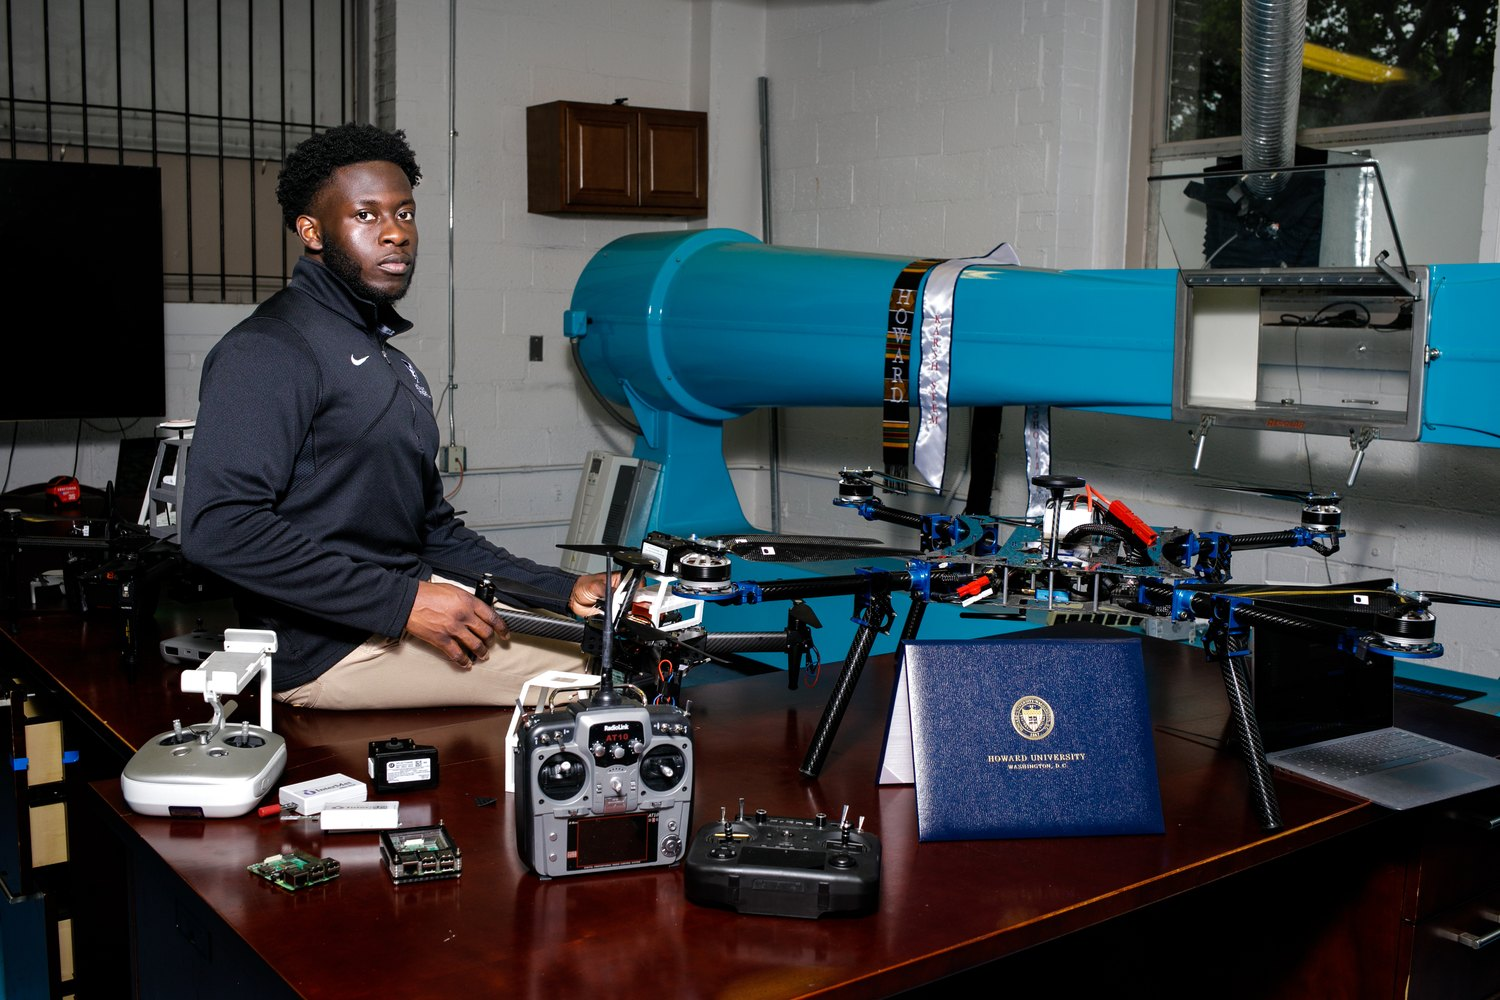
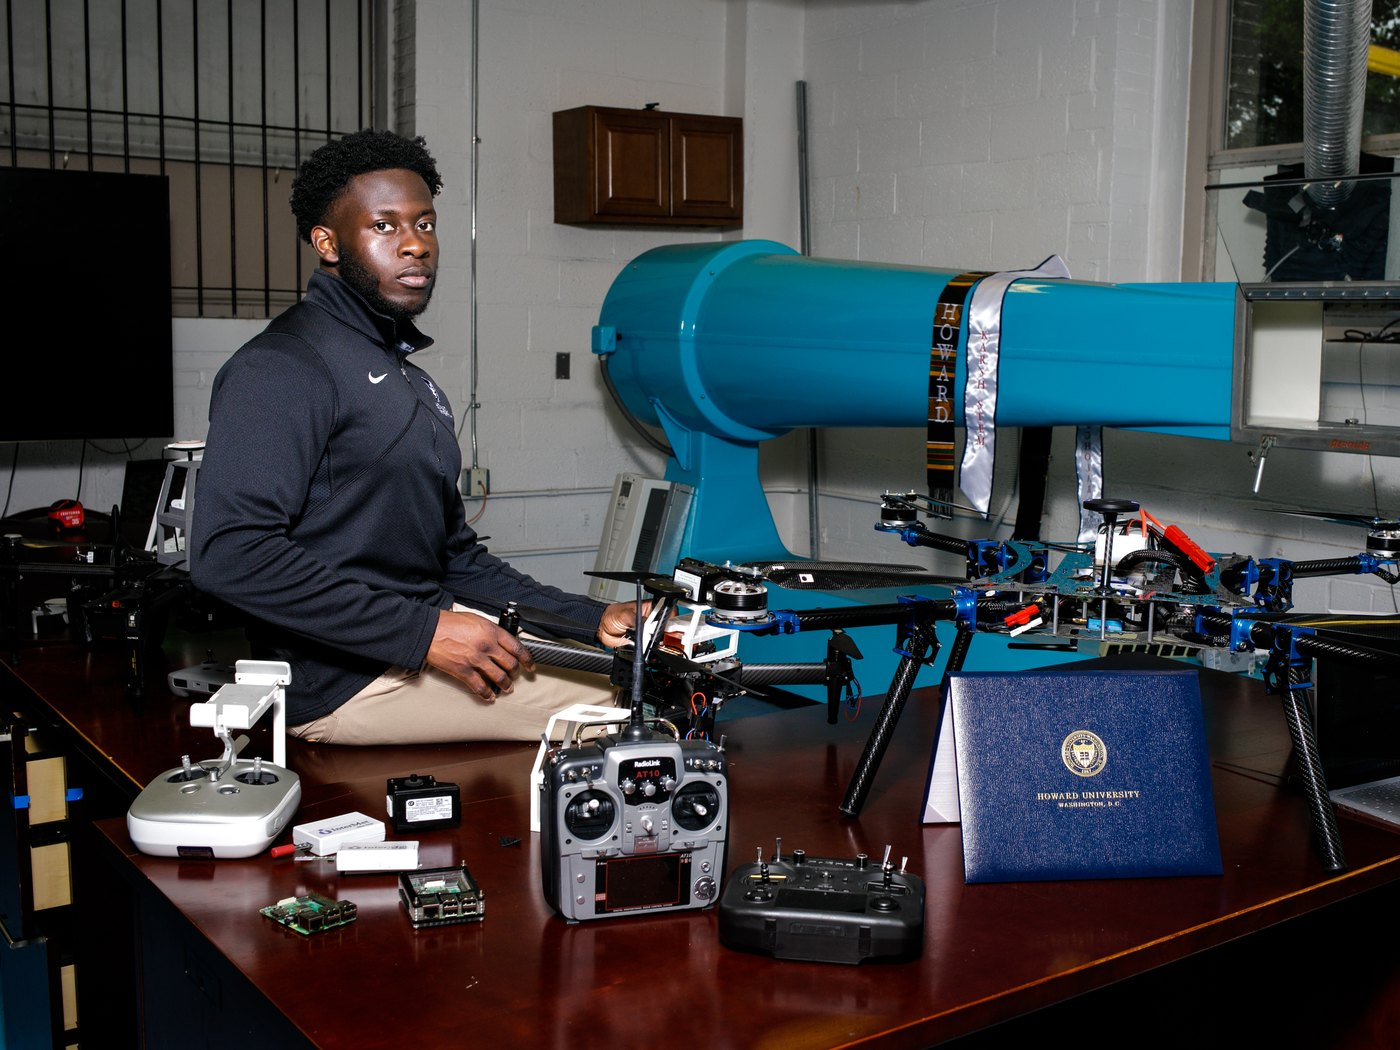
edits

diff --git a/assets/style.css b/assets/style.css
@@ -74,6 +74,7 @@ nav .links a:hover { color: var(--accent); }
 .hero .tagline { color: var(--accent); font-family: var(--mono); font-size: 14px; letter-spacing: 0.4px; margin-bottom: 26px; }
 .hero p.intro { color: var(--fg-2); font-size: 17.5px; max-width: 62ch; margin: 0 0 30px; }
 
+.hero-split + .domains { margin-top: 30px; }
 .domains { display: flex; flex-wrap: wrap; gap: 8px; margin-bottom: 32px; }
 .chip {
   font-family: var(--mono); font-size: 12px; color: var(--fg-2);
@@ -343,22 +344,19 @@ footer .foot-links { display: flex; gap: 20px; margin-top: 12px; font-family: va
   /* Stretch, not centre. Centring left the photo floating with dead space
      above and below it, because its height was fixed while the text column
      set the row height. */
-  align-items: stretch;
+  align-items: center;
 }
 .hero-copy { min-width: 0; }
 
 .hero-photo {
-  /* Fixed height, free width. Forcing every photo into one aspect ratio threw
-     away whatever the photographer framed: a wide bench became a tall crop of
-     a torso. Now the height is constant so the page never jumps between
-     slides, and each image takes the width its own proportions ask for.
-     Right-aligned, because the right edge is the one against the page margin
-     and the left edge is the soft one. */
+  /* One shape, sized for the landscape shots, and every file cut to match.
+     Chasing each photo's own ratio meant either gaps (a wide photo capped by
+     width, leaving space below) or a destructive crop (a wide photo forced to
+     fill a tall column, which cropped the subject out). A single 4:3 panel
+     costs a little off the sides of the portraits and solves both. */
   position: relative;
-  /* Fill the row the text defines, with a floor so a short intro cannot
-     squash it. */
-  height: 100%;
-  min-height: 420px;
+  width: 100%;
+  aspect-ratio: 4 / 3;
   outline: none;
 }
 .hero-photo .slide {
@@ -366,21 +364,18 @@ footer .foot-links { display: flex; gap: 20px; margin-top: 12px; font-family: va
   inset: 0;
   width: 100%;
   height: 100%;
-  /* Fill the panel. The files are already cropped around you, so what cover
-     trims here is background, not subject. */
   object-fit: cover;
-  object-position: 50% 42%;
   opacity: 0;
   transition: opacity .5s ease;
-  /* Mask on the image, not the frame: the frame is wider than a portrait
-     slide, so fading the frame would fade empty space. */
+  /* Mask on the image so the edges dissolve into the page rather than
+     ending at a rectangle. */
   -webkit-mask-image:
-    linear-gradient(to right, transparent 0%, #000 18%, #000 100%),
-    linear-gradient(to bottom, transparent 0%, #000 10%, #000 88%, transparent 100%);
+    linear-gradient(to right, transparent 0%, #000 16%, #000 100%),
+    linear-gradient(to bottom, transparent 0%, #000 9%, #000 90%, transparent 100%);
   -webkit-mask-composite: source-in;
           mask-image:
-    linear-gradient(to right, transparent 0%, #000 18%, #000 100%),
-    linear-gradient(to bottom, transparent 0%, #000 10%, #000 88%, transparent 100%);
+    linear-gradient(to right, transparent 0%, #000 16%, #000 100%),
+    linear-gradient(to bottom, transparent 0%, #000 9%, #000 90%, transparent 100%);
           mask-composite: intersect;
 }
 .hero-photo .slide.on { opacity: 1; }
@@ -430,9 +425,8 @@ footer .foot-links { display: flex; gap: 20px; margin-top: 12px; font-family: va
 @media (max-width: 860px) {
   .hero-split { grid-template-columns: 1fr; gap: 24px; }
   /* Under the copy on a phone: the name reads first. */
-  .hero-photo { height: auto; min-height: 0; aspect-ratio: 16/11; order: 2; }
+  .hero-photo { order: 2; }
   .hero-photo .slide {
-    inset: 0;
     -webkit-mask-image: linear-gradient(to bottom, #000 0%, #000 84%, transparent 100%);
             mask-image: linear-gradient(to bottom, #000 0%, #000 84%, transparent 100%);
   }

diff --git a/index.html b/index.html
@@ -31,22 +31,6 @@
   <h1>Designing aircraft. Building systems. Testing in flight.</h1>
   <p class="intro">My name is Kojo Osei-Ntansah. I am a mechanical engineer and a PhD student in Aerospace Engineering at Georgia Tech, advised by Dr. Jonathan Rogers in the Aerial Robotics and Experimental Autonomy Lab. I design, build, and test small uncrewed aircraft, working across aircraft structures, autonomy software, payload integration, and flight test.</p>
   <p class="intro">Over the past three years, my work has included more than 50 flight tests across five quadrotor platforms, two first-author AIAA SciTech papers, and two summers at DEVCOM Army Research Laboratory. I am interested in how the whole aircraft works together and in developing autonomous aerial systems that can be used reliably in the field.</p>
-  <div class="domains">
-    <span class="chip">Aircraft design</span>
-    <span class="chip">Autonomous sUAS</span>
-    <span class="chip">Guidance, navigation & control</span>
-    <span class="chip">State estimation</span>
-    <span class="chip">Structures & additive manufacturing</span>
-    <span class="chip">Payload & avionics integration</span>
-    <span class="chip">RF & sensing</span>
-    <span class="chip">Experimental flight test</span>
-    <span class="chip">Computer vision</span>
-  </div>
-  <div>
-    <a class="btn primary" href="#personal">See my projects</a>
-    <a class="btn" href="files/resume.pdf">Résumé</a>
-    <a class="btn" href="files/resume_detailed.pdf">Detailed résumé</a>
-<a class="btn" href="files/cv.pdf">CV</a>  </div>
   </div>
   <figure class="hero-photo" id="heroGallery"
           data-rotate='["assets/img/lab-quadrotor.jpg", "assets/img/lab-laptop.jpg", "assets/img/lab-seated.jpg", "assets/img/lab-bench.jpg", "assets/img/flying-controls.jpg", "assets/img/aircraft-standing.jpg", "assets/img/ramp.jpg"]' data-base="">
@@ -72,6 +56,22 @@ aria-selected="true"></button>
     </div>
   </figure>
 </div>
+  <div class="domains">
+    <span class="chip">Aircraft design</span>
+    <span class="chip">Autonomous sUAS</span>
+    <span class="chip">Guidance, navigation & control</span>
+    <span class="chip">State estimation</span>
+    <span class="chip">Structures & additive manufacturing</span>
+    <span class="chip">Payload & avionics integration</span>
+    <span class="chip">RF & sensing</span>
+    <span class="chip">Experimental flight test</span>
+    <span class="chip">Computer vision</span>
+  </div>
+  <div>
+    <a class="btn primary" href="#personal">See my projects</a>
+    <a class="btn" href="files/resume.pdf">Résumé</a>
+    <a class="btn" href="files/resume_detailed.pdf">Detailed résumé</a>
+<a class="btn" href="files/cv.pdf">CV</a>  </div>
 </div></header>
 
 <section id="about"><div class="wrap">
